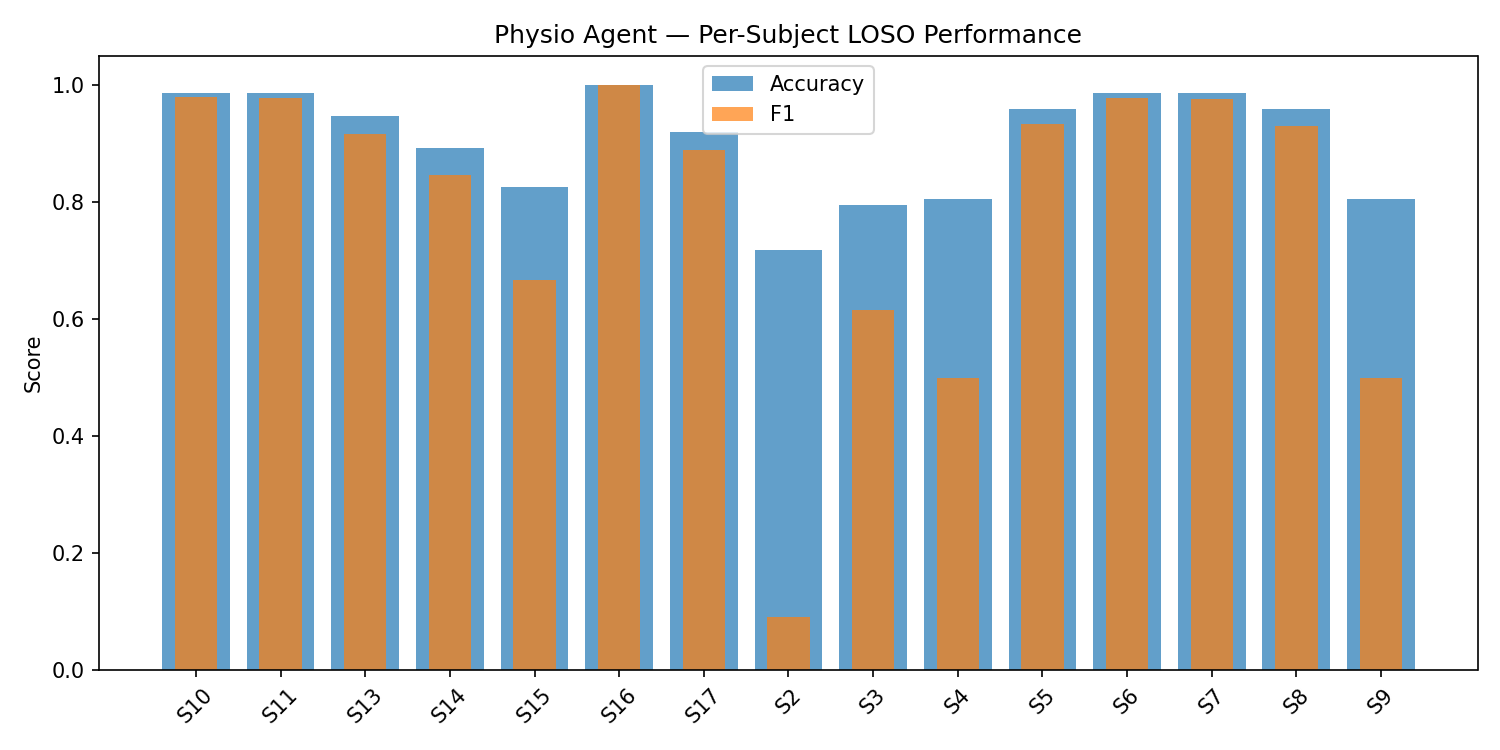
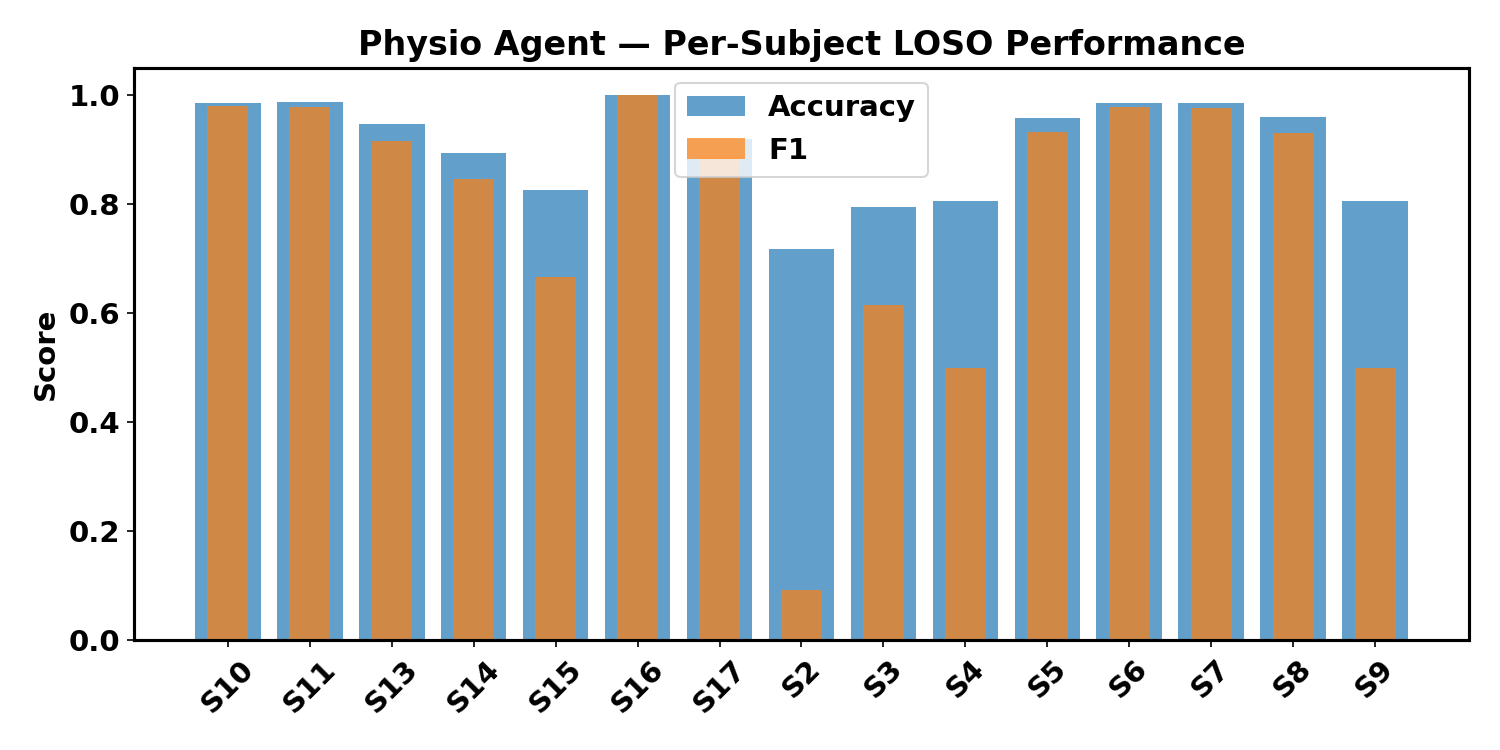
[eval] figure styling — bold text, larger fonts, visible spines across all figures

diff --git a/eval/generate_figures_extra.py b/eval/generate_figures_extra.py
@@ -2,6 +2,7 @@
 eval/generate_figures_extra.py
 Additional figure variety: confusion matrices, ROC curves, feature
 correlation heatmap.
+Styling: bold text throughout, font size 14-16, visible spines.
 """
 import numpy as np
 import pandas as pd
@@ -10,22 +11,47 @@ from sklearn.metrics import confusion_matrix, roc_curve, auc
 
 OUT_DIR = "paper/figures"
 
+plt.rcParams.update({
+    "font.size": 14,
+    "font.weight": "bold",
+    "axes.labelweight": "bold",
+    "axes.titleweight": "bold",
+    "axes.titlesize": 16,
+    "axes.labelsize": 14,
+    "xtick.labelsize": 14,
+    "ytick.labelsize": 14,
+    "legend.fontsize": 14,
+    "axes.linewidth": 1.5,
+    "axes.edgecolor": "black",
+})
+
+
+def style_spines(ax):
+    for spine in ax.spines.values():
+        spine.set_visible(True)
+        spine.set_linewidth(1.5)
+        spine.set_color("black")
+
 
 def fig_confusion_matrix(y_true, y_pred, title, filename):
     cm = confusion_matrix(y_true, y_pred)
     fig, ax = plt.subplots(figsize=(5, 4))
     im = ax.imshow(cm, cmap="Blues")
     ax.set_xticks([0, 1]); ax.set_yticks([0, 1])
-    ax.set_xticklabels(["Non-risk", "Risk"])
-    ax.set_yticklabels(["Non-risk", "Risk"])
-    ax.set_xlabel("Predicted")
-    ax.set_ylabel("True")
-    ax.set_title(title)
+    ax.set_xticklabels(["Non-risk", "Risk"], fontweight="bold")
+    ax.set_yticklabels(["Non-risk", "Risk"], fontweight="bold")
+    ax.set_xlabel("Predicted", fontweight="bold")
+    ax.set_ylabel("True", fontweight="bold")
+    ax.set_title(title, fontweight="bold")
     for i in range(2):
         for j in range(2):
             ax.text(j, i, cm[i, j], ha="center", va="center",
-                     color="white" if cm[i, j] > cm.max() / 2 else "black", fontsize=14)
-    plt.colorbar(im)
+                     color="white" if cm[i, j] > cm.max() / 2 else "black",
+                     fontsize=14, fontweight="bold")
+    cbar = plt.colorbar(im)
+    for label in cbar.ax.get_yticklabels():
+        label.set_fontweight("bold")
+    style_spines(ax)
     plt.tight_layout()
     plt.savefig(f"{OUT_DIR}/{filename}", dpi=150)
     plt.close()
@@ -36,12 +62,19 @@ def fig_roc_curve(y_true, y_score, title, filename):
     fpr, tpr, _ = roc_curve(y_true, y_score)
     roc_auc = auc(fpr, tpr)
     fig, ax = plt.subplots(figsize=(5, 5))
-    ax.plot(fpr, tpr, label=f"AUC = {roc_auc:.3f}")
-    ax.plot([0, 1], [0, 1], linestyle="--", color="gray", label="Chance")
-    ax.set_xlabel("False Positive Rate")
-    ax.set_ylabel("True Positive Rate")
-    ax.set_title(title)
-    ax.legend()
+    ax.plot(fpr, tpr, label=f"AUC = {roc_auc:.3f}", linewidth=2.5)
+    ax.plot([0, 1], [0, 1], linestyle="--", color="gray", label="Chance", linewidth=2)
+    ax.set_xlabel("False Positive Rate", fontweight="bold")
+    ax.set_ylabel("True Positive Rate", fontweight="bold")
+    ax.set_title(title, fontweight="bold")
+    for label in ax.get_xticklabels():
+        label.set_fontweight("bold")
+    for label in ax.get_yticklabels():
+        label.set_fontweight("bold")
+    leg = ax.legend()
+    for text in leg.get_texts():
+        text.set_fontweight("bold")
+    style_spines(ax)
     plt.tight_layout()
     plt.savefig(f"{OUT_DIR}/{filename}", dpi=150)
     plt.close()
@@ -58,10 +91,13 @@ def fig_feature_correlation_heatmap():
     im = ax.imshow(corr, cmap="coolwarm", vmin=-1, vmax=1)
     ax.set_xticks(range(len(FEATURE_COLS)))
     ax.set_yticks(range(len(FEATURE_COLS)))
-    ax.set_xticklabels(FEATURE_COLS, rotation=90, fontsize=8)
-    ax.set_yticklabels(FEATURE_COLS, fontsize=8)
-    ax.set_title("Physio Feature Correlation Heatmap")
-    plt.colorbar(im)
+    ax.set_xticklabels(FEATURE_COLS, rotation=90, fontsize=12, fontweight="bold")
+    ax.set_yticklabels(FEATURE_COLS, fontsize=12, fontweight="bold")
+    ax.set_title("Physio Feature Correlation Heatmap", fontweight="bold")
+    cbar = plt.colorbar(im)
+    for label in cbar.ax.get_yticklabels():
+        label.set_fontweight("bold")
+    style_spines(ax)
     plt.tight_layout()
     plt.savefig(f"{OUT_DIR}/physio_feature_correlation.png", dpi=150)
     plt.close()
@@ -72,7 +108,6 @@ def fig_physio_confusion_and_roc():
     from agents.physio_agent import PhysioAgent, load_physio_data, FEATURE_COLS
     X, y, subjects = load_physio_data()
 
-    # use held-out subjects S16, S17 (same as original single-split test, for a clean eval set)
     test_mask = np.isin(subjects, ["S16", "S17"])
     train_mask = ~test_mask
     X_train, y_train = X[train_mask], y[train_mask]

diff --git a/eval/generate_figures.py b/eval/generate_figures.py
@@ -2,11 +2,33 @@
 eval/generate_figures.py
 Generates paper-ready figures from saved results CSVs.
 Saves all as PNG into paper/figures/.
+Styling: bold text throughout, font size 14-16, visible spines.
 """
 import pandas as pd
 import matplotlib.pyplot as plt
 
 OUT_DIR = "paper/figures"
+
+plt.rcParams.update({
+    "font.size": 14,
+    "font.weight": "bold",
+    "axes.labelweight": "bold",
+    "axes.titleweight": "bold",
+    "axes.titlesize": 16,
+    "axes.labelsize": 14,
+    "xtick.labelsize": 14,
+    "ytick.labelsize": 14,
+    "legend.fontsize": 14,
+    "axes.linewidth": 1.5,
+    "axes.edgecolor": "black",
+})
+
+
+def style_spines(ax):
+    for spine in ax.spines.values():
+        spine.set_visible(True)
+        spine.set_linewidth(1.5)
+        spine.set_color("black")
 
 
 def fig_loso_per_subject():
@@ -16,10 +38,15 @@ def fig_loso_per_subject():
     ax.bar(x, df["acc"], label="Accuracy", alpha=0.7)
     ax.bar(x, df["f1"], label="F1", alpha=0.7, width=0.5)
     ax.set_xticks(x)
-    ax.set_xticklabels(df["subject"], rotation=45)
-    ax.set_ylabel("Score")
-    ax.set_title("Physio Agent — Per-Subject LOSO Performance")
-    ax.legend()
+    ax.set_xticklabels(df["subject"], rotation=45, fontweight="bold")
+    ax.set_ylabel("Score", fontweight="bold")
+    ax.set_title("Physio Agent — Per-Subject LOSO Performance", fontweight="bold")
+    for label in ax.get_yticklabels():
+        label.set_fontweight("bold")
+    leg = ax.legend()
+    for text in leg.get_texts():
+        text.set_fontweight("bold")
+    style_spines(ax)
     plt.tight_layout()
     plt.savefig(f"{OUT_DIR}/loso_per_subject.png", dpi=150)
     plt.close()
@@ -47,10 +74,15 @@ def fig_baseline_comparison():
     ax.bar([i - width/2 for i in x], accs, width, label="Accuracy")
     ax.bar([i + width/2 for i in x], f1s, width, label="F1")
     ax.set_xticks(x)
-    ax.set_xticklabels(labels, fontsize=8)
-    ax.set_ylabel("Score")
-    ax.set_title("Baseline Classifiers vs MARL (PPO) Agents")
-    ax.legend()
+    ax.set_xticklabels(labels, fontsize=12, fontweight="bold")
+    ax.set_ylabel("Score", fontweight="bold")
+    ax.set_title("Baseline Classifiers vs MARL (PPO) Agents", fontweight="bold")
+    for label in ax.get_yticklabels():
+        label.set_fontweight("bold")
+    leg = ax.legend()
+    for text in leg.get_texts():
+        text.set_fontweight("bold")
+    style_spines(ax)
     plt.tight_layout()
     plt.savefig(f"{OUT_DIR}/baseline_comparison.png", dpi=150)
     plt.close()
@@ -65,10 +97,15 @@ def fig_ablation():
     ax.bar([i - width/2 for i in x], df["acc"], width, label="Accuracy")
     ax.bar([i + width/2 for i in x], df["f1"], width, label="F1")
     ax.set_xticks(x)
-    ax.set_xticklabels(df["config"], rotation=15)
-    ax.set_ylabel("Score")
-    ax.set_title("Ablation: Physio-only vs Context-only vs Fusion")
-    ax.legend()
+    ax.set_xticklabels(df["config"], rotation=15, fontweight="bold")
+    ax.set_ylabel("Score", fontweight="bold")
+    ax.set_title("Ablation: Physio-only vs Context-only vs Fusion", fontweight="bold")
+    for label in ax.get_yticklabels():
+        label.set_fontweight("bold")
+    leg = ax.legend()
+    for text in leg.get_texts():
+        text.set_fontweight("bold")
+    style_spines(ax)
     plt.tight_layout()
     plt.savefig(f"{OUT_DIR}/ablation.png", dpi=150)
     plt.close()
@@ -95,8 +132,13 @@ def fig_shap_summary():
     order = np.argsort(mean_abs)
     fig, ax = plt.subplots(figsize=(8, 5))
     ax.barh([FEATURE_COLS[i] for i in order], mean_abs[order])
-    ax.set_xlabel("Mean |SHAP value|")
-    ax.set_title("Physio Agent — SHAP Feature Importance")
+    ax.set_xlabel("Mean |SHAP value|", fontweight="bold")
+    ax.set_title("Physio Agent — SHAP Feature Importance", fontweight="bold")
+    for label in ax.get_yticklabels():
+        label.set_fontweight("bold")
+    for label in ax.get_xticklabels():
+        label.set_fontweight("bold")
+    style_spines(ax)
     plt.tight_layout()
     plt.savefig(f"{OUT_DIR}/shap_physio_summary.png", dpi=150)
     plt.close()
